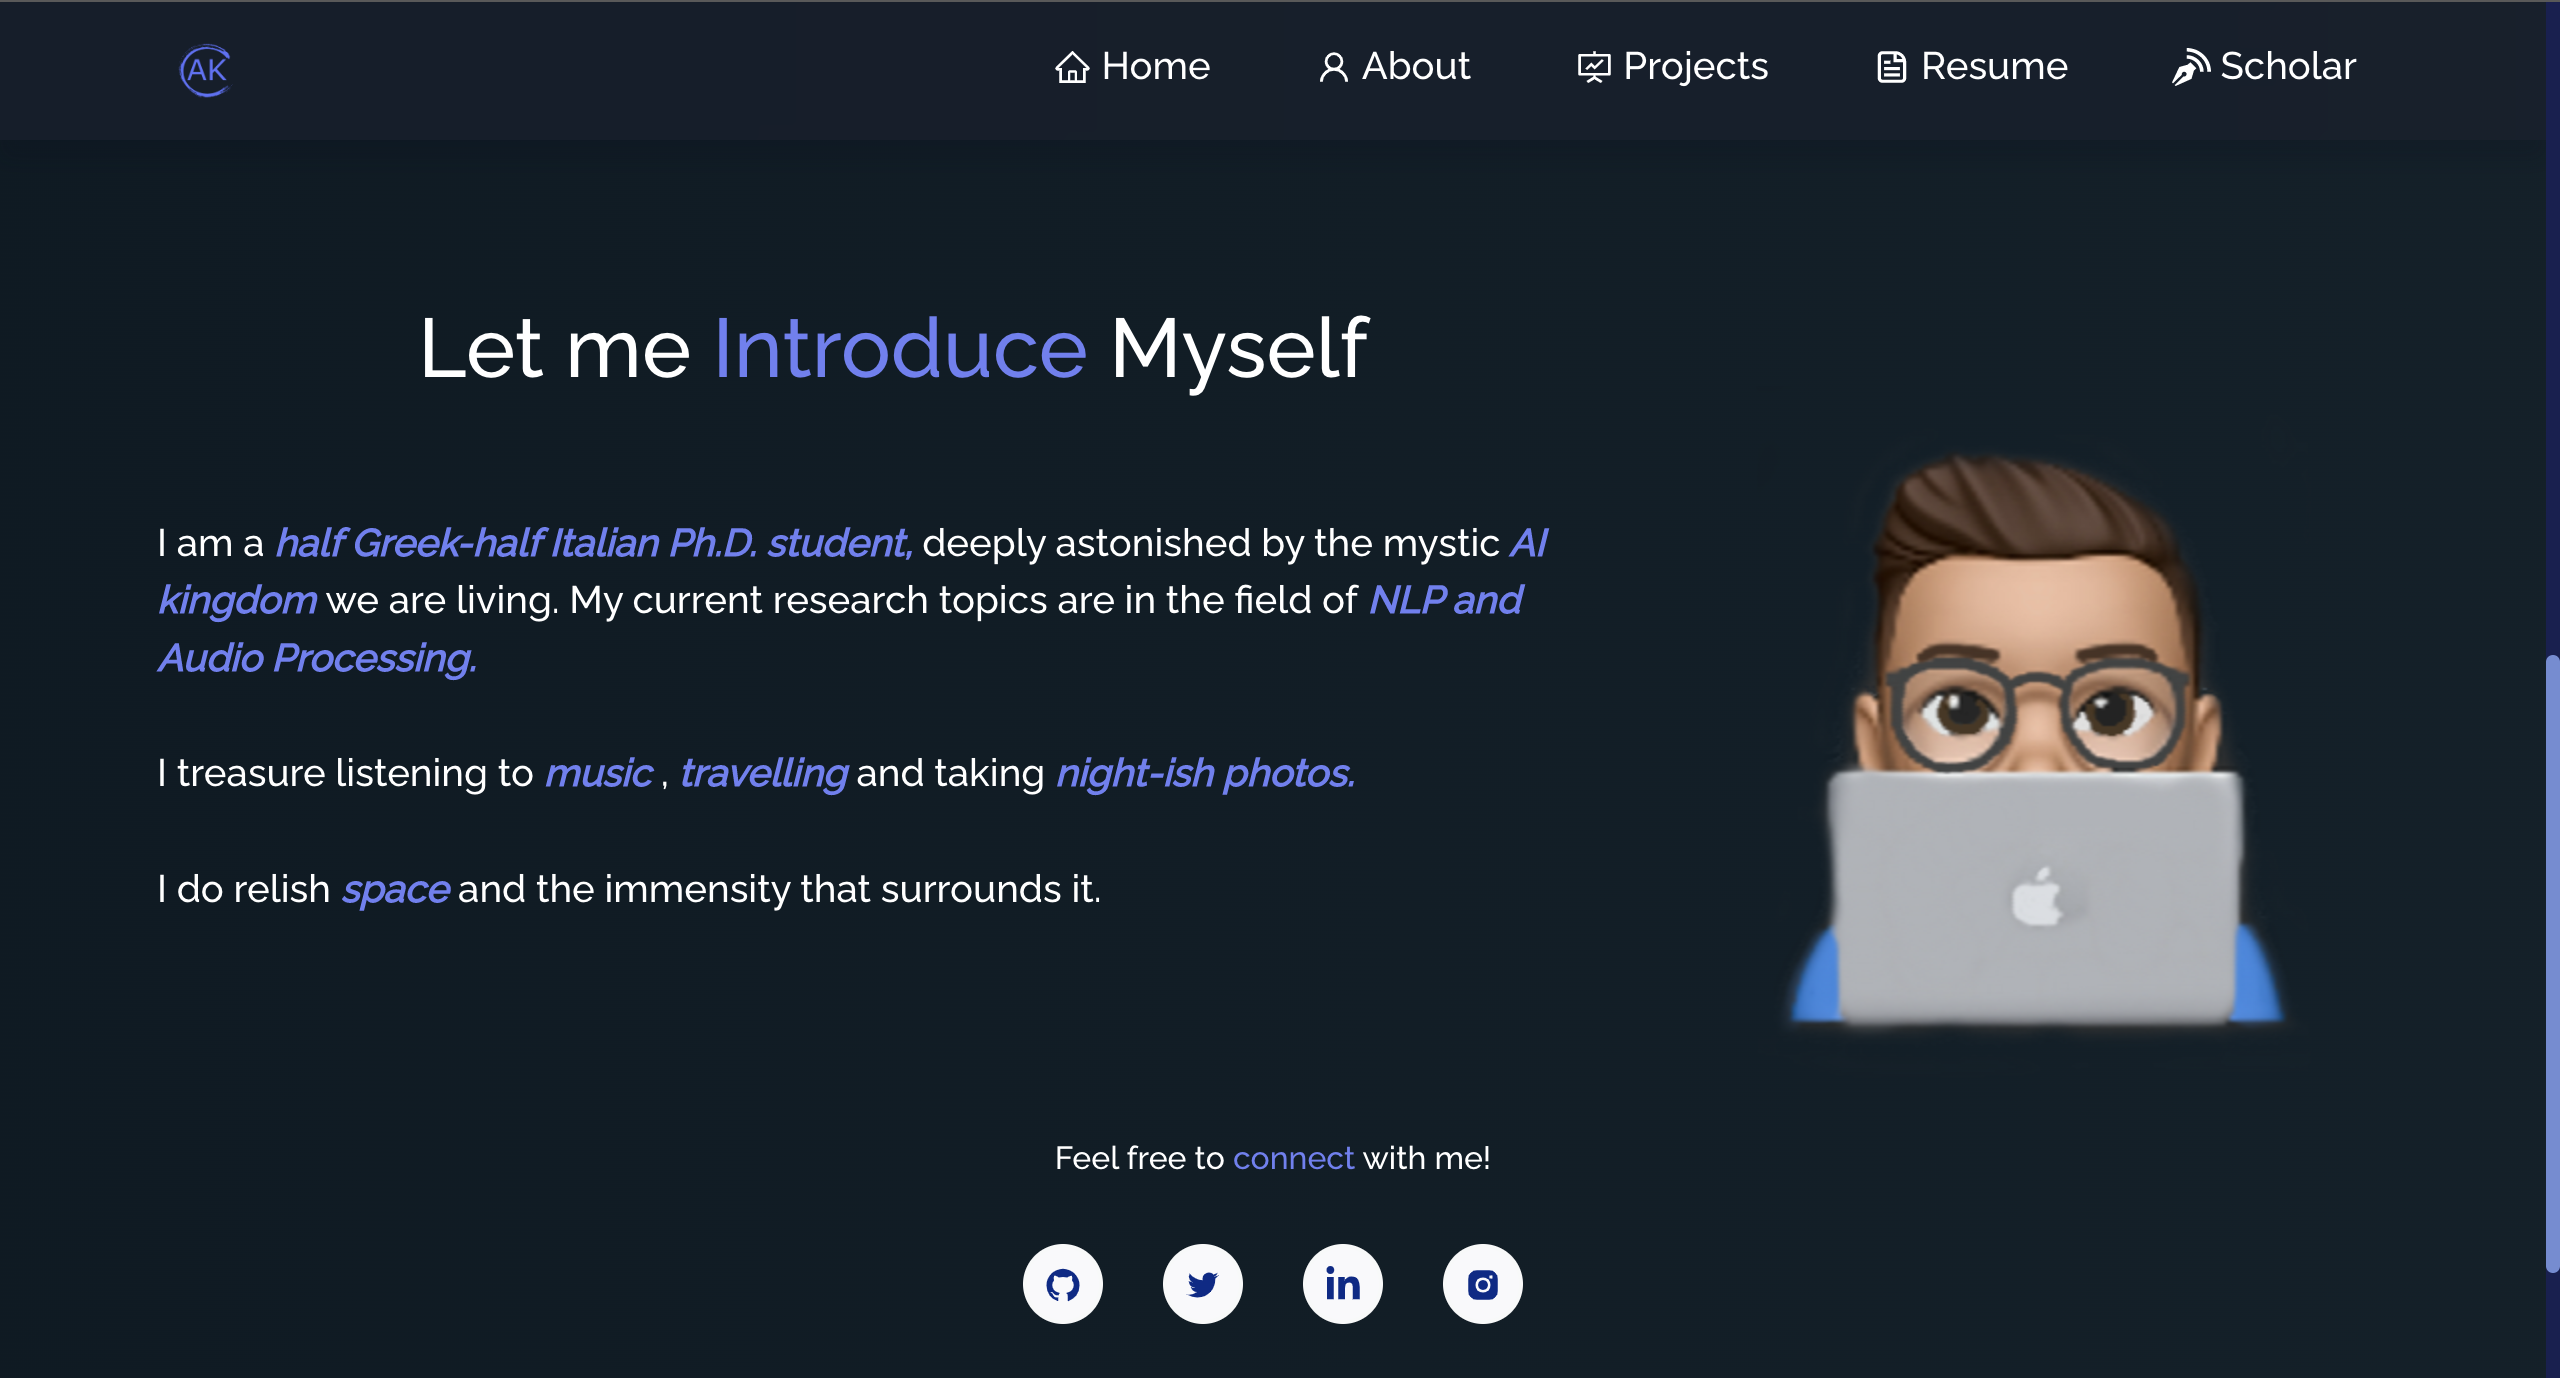
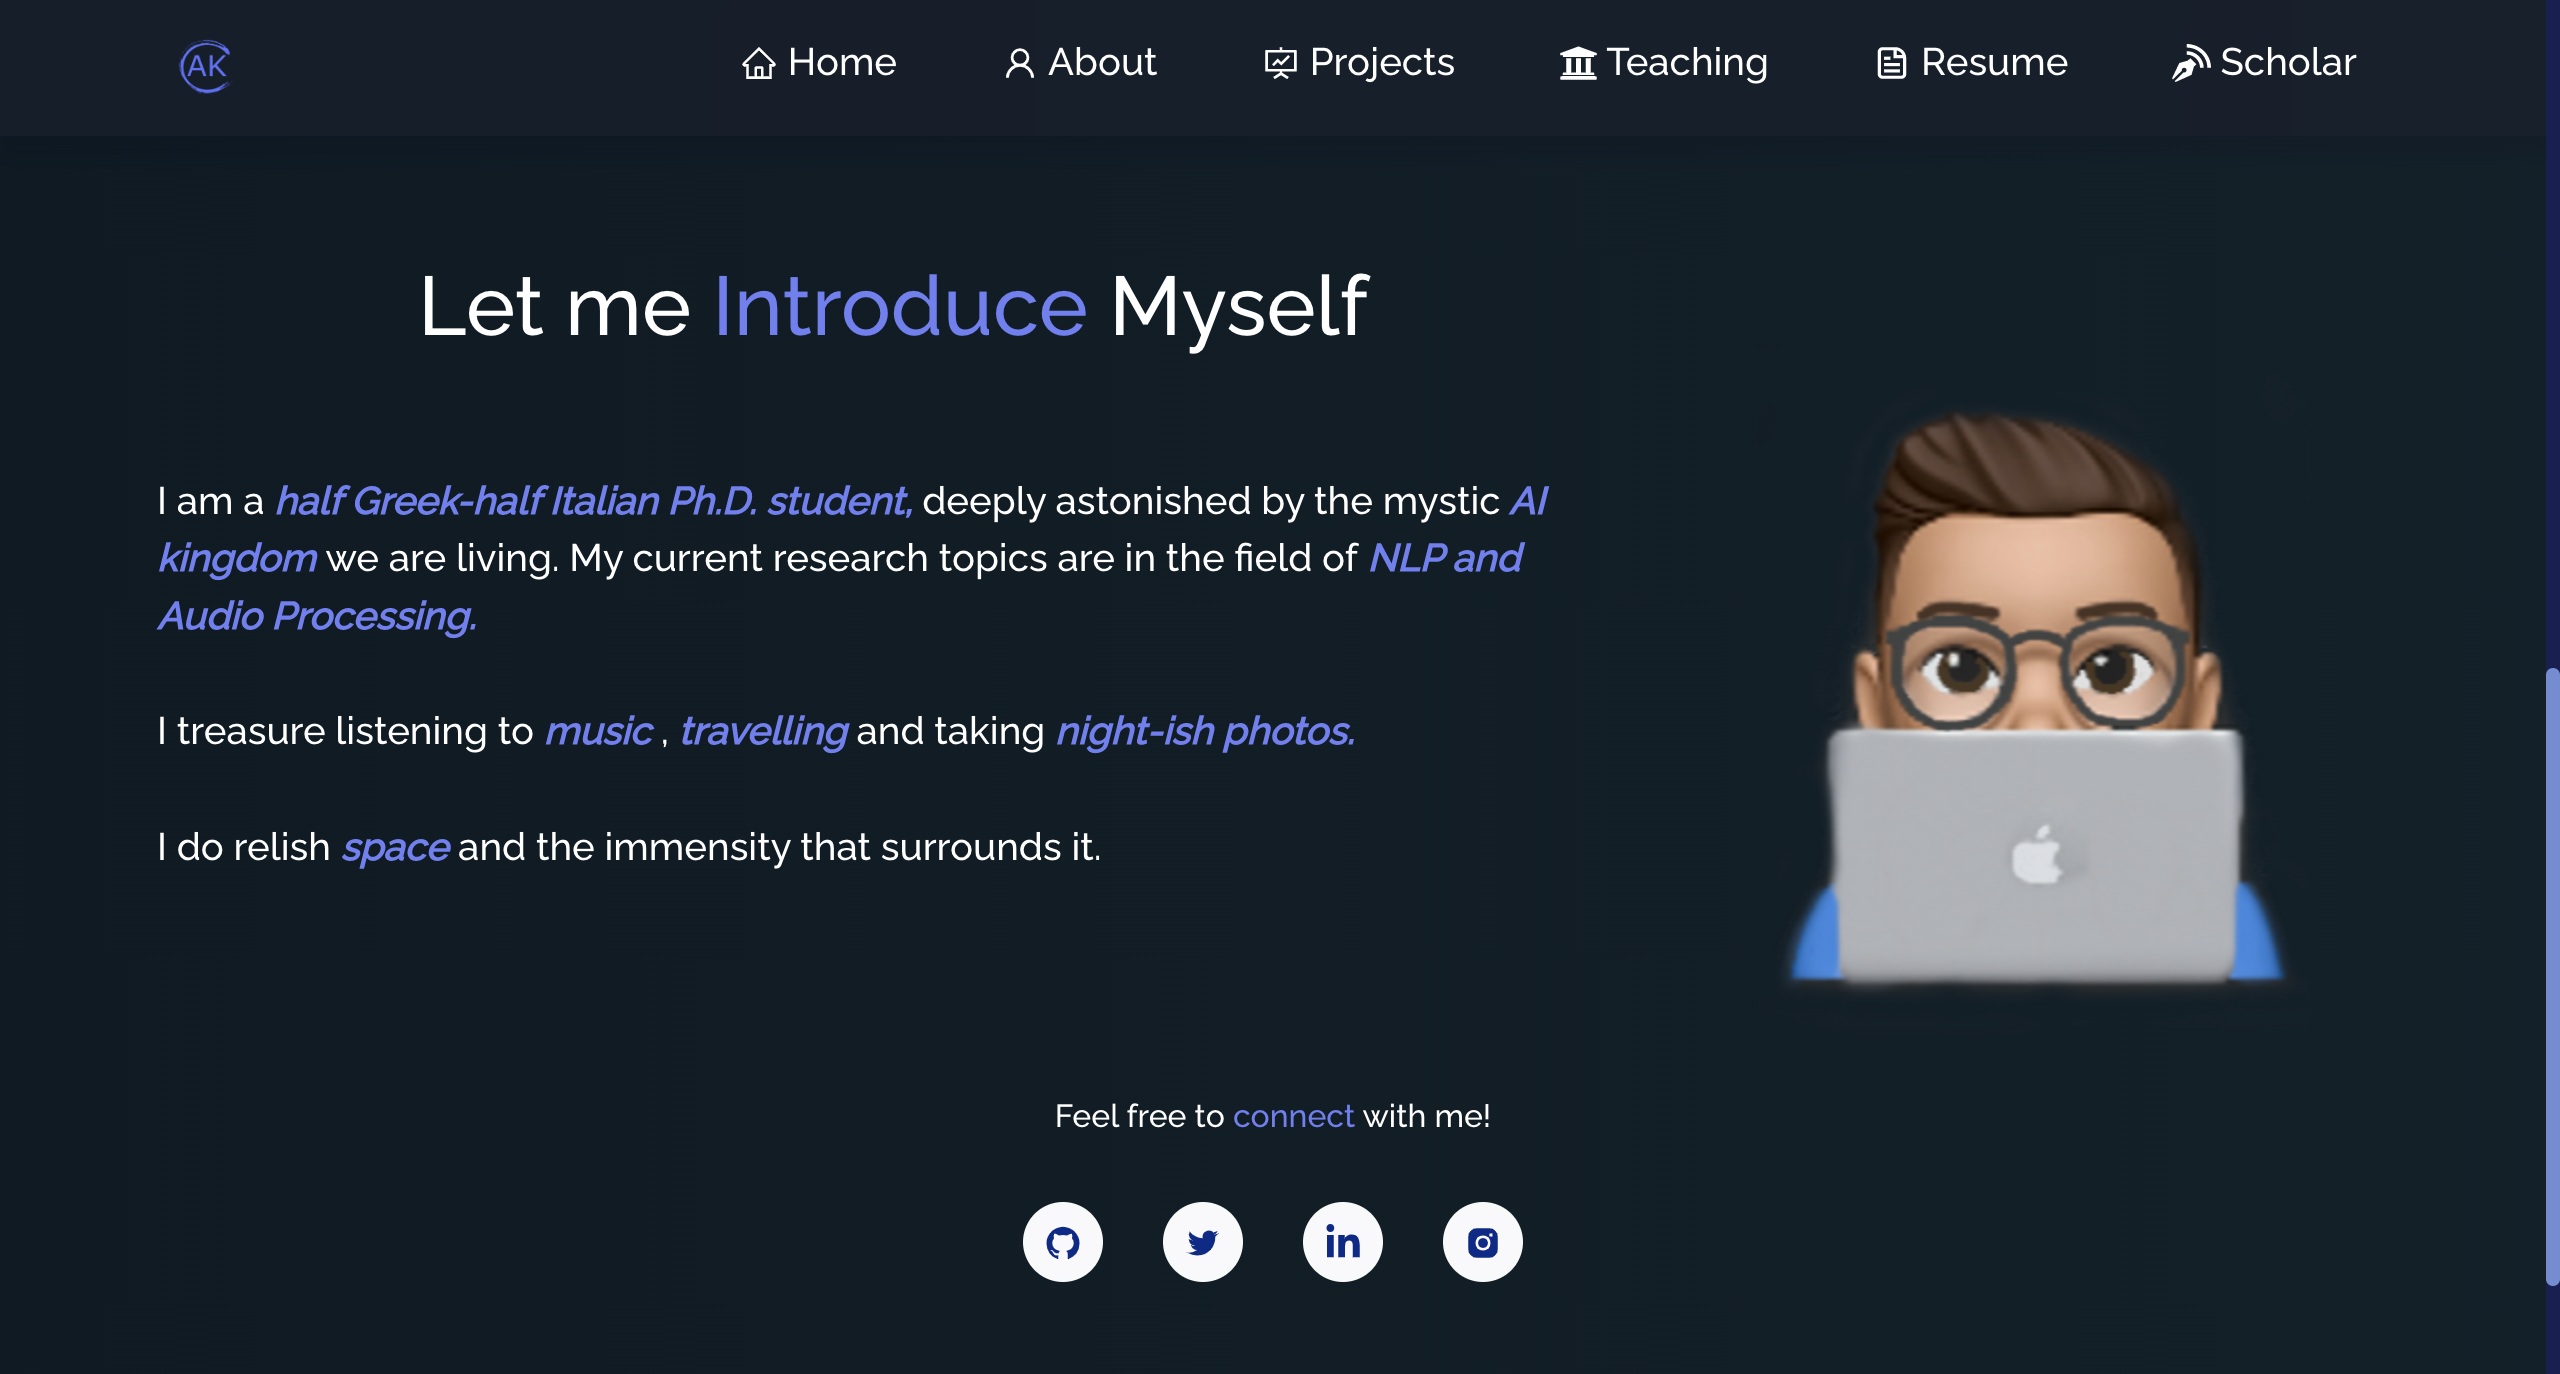
Deploy React app to GitHub Pages

diff --git a/index.html b/index.html
@@ -1,1 +1,1 @@
-<!doctype html><html lang="en"><head><title>Alkis Koudounas | Portfolio</title><meta http-equiv="Content-Type" content="text/html;charset=UTF-8"><meta http-equiv="X-UA-Compatible" content="IE=Edge"><meta charset="utf-8"/><link rel="icon" href="favicon.png"/><meta name="viewport" content="width=device-width,initial-scale=1"/><meta name="theme-color" content="#000000"/><link rel="manifest" href="manifest.json"/><link rel="canonical" href="https://koudounasalkis.github.io"><meta itemprop="name" content="Alkis Koudounas"><meta name="google-site-verification" content="gb8QAHk3v7BuKXUcSb6AwHnoX27xtOL_UO7_9tIkPUw"/><meta name="description" content="Alkis Koudounas, Ph.D. Student @ Politecnico di Torino - Deep Learning - Speech & Audio Processing - NLP - XAI - Space Enthusiast - Teaching - Data Science"><meta name="keywords" content="Alkis Koudounas,Alkis,Koudounas,PhD,Turin,Half,Greek,Italian,AI,Speech,Audio,NLP,Home,Projects,Data,Science,Teaching"><meta itemprop="image" content="https://raw.githubusercontent.com/koudounasalkis/koudounasalkis.github.io/gh-pages/homepage.png"><meta property="og:url" content="https://koudounasalkis.github.io"><meta property="og:title" content="Alkis Koudounas"><meta property="og:type" content="website"><meta name="og:description" content="Alkis Koudounas, Ph.D. Student @ Politecnico di Torino - Deep Learning - Speech & Audio Processing - NLP - XAI - Space Enthusiast - Teaching - Data Science"><meta property="og:image" content="https://raw.githubusercontent.com/koudounasalkis/koudounasalkis.github.io/gh-pages/homepage.png"><meta name="twitter:card" content="summary_large_image"><meta name="twitter:title" content="Alkis Koudounas"><meta name="twitter:description" content="Alkis Koudounas, Ph.D. Student @ Politecnico di Torino - Deep Learning - Speech & Audio Processing - NLP - XAI - Space Enthusiast - Teaching - Data Science"><meta name="twitter:image" content="https://raw.githubusercontent.com/koudounasalkis/koudounasalkis.github.io/gh-pages/homepage.png"><script defer="defer" src="/static/js/main.48114165.js"></script><link href="/static/css/main.df7a294d.css" rel="stylesheet"></head><body><noscript>Alkis Koudounas | Portfolio, built with React.js</noscript><div id="root"></div></body></html>
+<!doctype html><html lang="en"><head><title>Alkis Koudounas | Portfolio</title><meta http-equiv="Content-Type" content="text/html;charset=UTF-8"><meta http-equiv="X-UA-Compatible" content="IE=Edge"><meta charset="utf-8"/><link rel="icon" href="favicon.png"/><meta name="viewport" content="width=device-width,initial-scale=1"/><meta name="theme-color" content="#000000"/><link rel="manifest" href="manifest.json"/><link rel="canonical" href="https://koudounasalkis.github.io"><link rel="canonical" href="https://koudounasalkis.github.io/about"><link rel="canonical" href="https://koudounasalkis.github.io/project"><link rel="canonical" href="https://koudounasalkis.github.io/teaching"><link rel="canonical" href="https://koudounasalkis.github.io/resume"><meta itemprop="name" content="Alkis Koudounas"><meta name="google-site-verification" content="gb8QAHk3v7BuKXUcSb6AwHnoX27xtOL_UO7_9tIkPUw"/><meta name="description" content="Alkis Koudounas, Ph.D. Student @ Politecnico di Torino - Deep Learning - Speech & Audio Processing - NLP - XAI - Space Enthusiast - Teaching - Data Science"><meta name="keywords" content="Alkis Koudounas,Alkis,Koudounas,PhD,Turin,Half,Greek,Italian,AI,Speech,Audio,NLP,Home,Projects,Data,Science,Teaching"><meta itemprop="image" content="https://raw.githubusercontent.com/koudounasalkis/koudounasalkis.github.io/gh-pages/homepage.png"><meta property="og:url" content="https://koudounasalkis.github.io"><meta property="og:title" content="Alkis Koudounas"><meta property="og:type" content="website"><meta name="og:description" content="Alkis Koudounas, Ph.D. Student @ Politecnico di Torino - Deep Learning - Speech & Audio Processing - NLP - XAI - Space Enthusiast - Teaching - Data Science"><meta property="og:image" content="https://raw.githubusercontent.com/koudounasalkis/koudounasalkis.github.io/gh-pages/homepage.png"><meta name="twitter:card" content="summary_large_image"><meta name="twitter:title" content="Alkis Koudounas"><meta name="twitter:description" content="Alkis Koudounas, Ph.D. Student @ Politecnico di Torino - Deep Learning - Speech & Audio Processing - NLP - XAI - Space Enthusiast - Teaching - Data Science"><meta name="twitter:image" content="https://raw.githubusercontent.com/koudounasalkis/koudounasalkis.github.io/gh-pages/homepage.png"><script defer="defer" src="/static/js/main.48114165.js"></script><link href="/static/css/main.df7a294d.css" rel="stylesheet"></head><body><noscript><h1>I am Alkis Koudounas,</h1>and this is my personal portfolio. Here you find a little bit about me, the projects I am working on, the courses I teach, my resume, and how to contact me</noscript><div id="root"></div></body></html>
